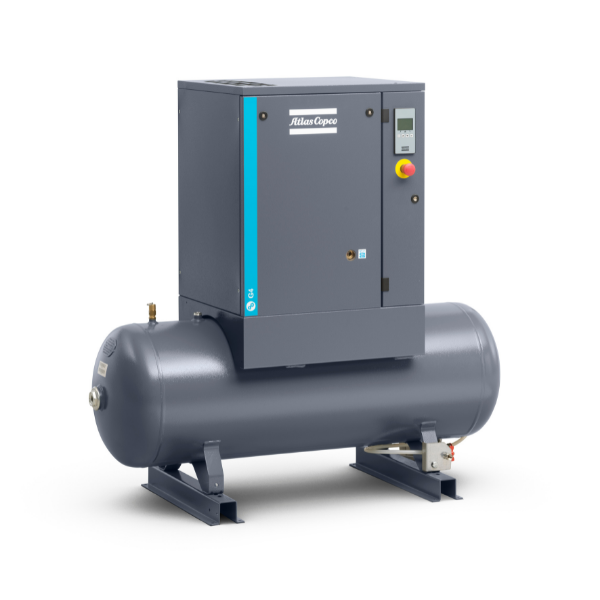
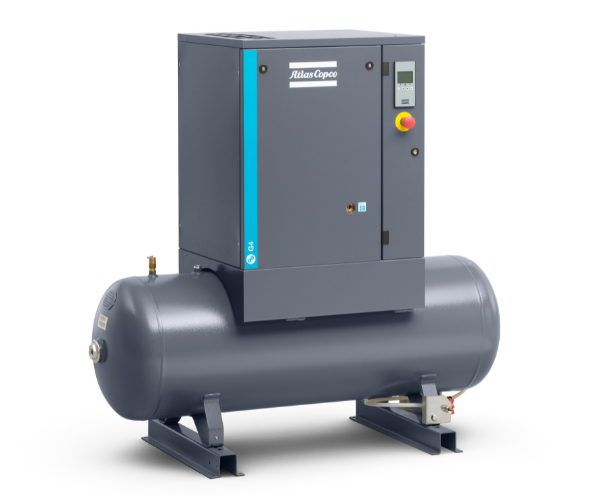
section changes

diff --git a/src/slides/Carosel.js b/src/slides/Carosel.js
@@ -1,10 +1,10 @@
 import React from 'react'
 import logo from'../Images/logo/150years.png'
 import logo1 from '../Images/logo/flag.png'
-import logo2 from '../Images/logo/choose.png'
+import logo2 from '../Images/logo/environ atlas.png'
 import { Carousel } from 'bootstrap'
-import aircomp from '../Images/air compresser/air compressor 3.png'
-import aircomp1 from '../Images/air compresser/air compressor 4.png'
+import aircomp from '../Images/air compresser/air compressor 6.png'
+import aircomp1 from '../Images/air compresser/air compressor 7.png'
 
 
 
@@ -36,11 +36,11 @@ export default function Carosel() {
         </div>
         <div className="sec-2">
             <section>
-                <h4>Under 700 | Combo Pack | Multiple Brand & Much More...</h4>
+                <h3>Under 700 | Combo Pack | Multiple Brand & Much More...</h3>
                 <div>
-                    <img src={aircomp} alt="compressor" style={{width:'400px', height:'400px'}}></img>
-                    <img src={aircomp1} alt="compressor" style={{width:'400px', height:'400px'}}></img>
-                    <button type="button" className="btn btn-outline-info" style={{color:'#009698', bottom: '0', right: '0' }}>See All Offers</button>
+                    <img src={aircomp} alt="compressor" style={{width:'400px', height:'367px'}}></img>
+                    <img src={aircomp1} alt="compressor" style={{width:'400px', height:'367px', margin:'7px'}}></img>
+                    <button type="button" className="btn btn-light" data-bs-toggle="button"><h6>See All Offers</h6></button>
                 </div>
             </section>
         </div>

diff --git a/src/header/Navbar.js b/src/header/Navbar.js
@@ -28,9 +28,9 @@ export default function Navbar() {
       </div>
       <input className="form-control me-2" type="search" placeholder="Search" aria-label="Search"/>
     </div>
-    <button type="button" className="btn btn-light font-weight-bold mx-2" data-bs-toggle="button">🔤Language</button>
-    <button type="button" className="btn btn-light font-weight-bold mx-2" data-bs-toggle="button">👤Sign in</button>
-    <button type="button" className="btn btn-light font-weight-bold mx-2" data-bs-toggle="button">🛒Cart</button>
+    <button type="button" className="btn btn-light mx-2" data-bs-toggle="button">🔤Language</button>
+    <button type="button" className="btn btn-light mx-2" data-bs-toggle="button">👤Sign in</button>
+    <button type="button" className="btn btn-light mx-2" data-bs-toggle="button">🛒Cart</button>
   </div>
 </nav>
     </div>

diff --git a/public/index.html b/public/index.html
@@ -26,7 +26,7 @@
     -->
     <title>Re_Cart</title>
   </head>
-  <body>
+  <body style="background-color:whitesmoke">
     <noscript>You need to enable JavaScript to run this app.</noscript>
     <div id="root"></div>
     <!--
@@ -39,8 +39,5 @@
       To begin the development, run `npm start` or `yarn start`.
       To create a production bundle, use `npm run build` or `yarn build`.
     -->
-    <script src="https://cdn.jsdelivr.net/npm/@popperjs/core@2.9.2/dist/umd/popper.min.js" ></script>    
-    <script src="https://cdn.jsdelivr.net/npm/bootstrap@5.0.1/dist/js/bootstrap.min.js" integrity="sha384-Atwg2Pkwv9vp0ygtn1JAojH0nYbwNJLPhwyoVbhoPwBhjQPR5VtM2+xf0Uwh9KtT" crossorigin="anonymous">
-    </script>
   </body>
 </html>

diff --git a/src/App.css b/src/App.css
@@ -45,3 +45,5 @@
 }
 
 
+
+
